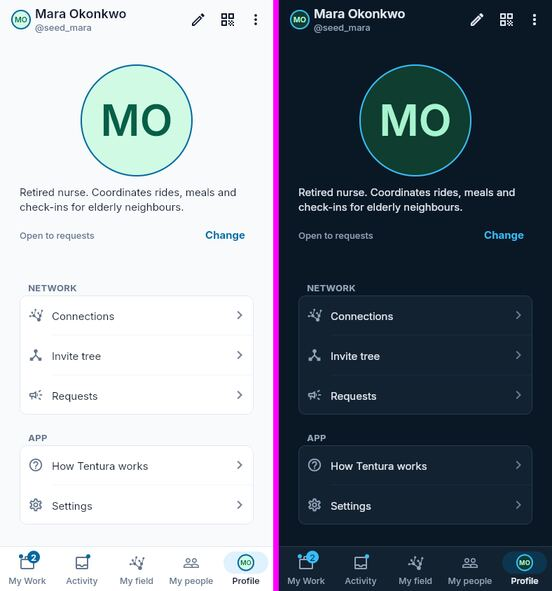
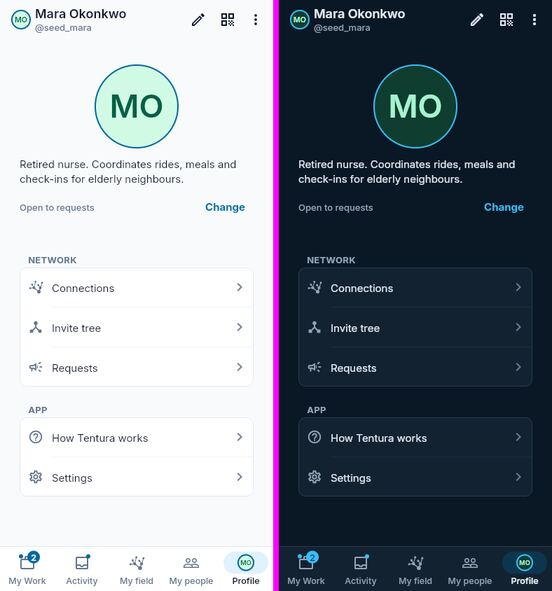
fix(ui): UI review round 2 — tabs, graphs, People tab, rating, profile
- Tabs (#206): Forward picker counts read "Not yet seen 3" like Updates;
  the design-system doc now fixes the rule (plain muted number for a
  collection size, filled badge only for new / needs-attention counts).
- Graphs (#211): the viewer node in My field draws from the live own
  profile, so a cold load no longer shows "?" at the centre.
- Request › People (#205): sections render as headers over helper cards
  (AccordionExpansionTile(framed: false)) instead of cards inside a card.
- Rating (#208): reciprocity class is plain status text that wraps, not a
  truncated pill; removes two raw-inset/radius lint hits (baseline 26→24).
- Profile (#210): hero avatar 160→120; default medium avatar no longer
  derived from the hero size.

Claude-Session: https://claude.ai/code/session_01Tpen3EKFYB9hVr97ZsYy22

diff --git a/packages/client/lib/features/rating/ui/widget/rating_list_tile.dart b/packages/client/lib/features/rating/ui/widget/rating_list_tile.dart
@@ -79,31 +79,21 @@ class RatingListTile extends StatelessWidget {
     }
 
     String badgeLabel;
-    Color badgeBg;
     Color badgeFg;
-    Color badgeBorder;
     switch (reciprocity) {
       case _ReciprocityClass.mutual:
         badgeLabel = l10n.classMutual;
-        badgeBg = colorScheme.primary.withValues(alpha: 12 / 100);
         badgeFg = colorScheme.primary;
-        badgeBorder = colorScheme.primary.withValues(alpha: 4 / 10);
       case _ReciprocityClass.oneWayOut:
         badgeLabel = l10n.classOneWayOut;
-        badgeBg = tt.warn.withValues(alpha: 12 / 100);
         badgeFg = tt.warn;
-        badgeBorder = tt.warn.withValues(alpha: 4 / 10);
       case _ReciprocityClass.oneWayIn:
         badgeLabel = l10n.classOneWayIn;
-        // Neutral, so it stays distinct from the brand "mutual" badge.
-        badgeBg = colorScheme.surfaceContainerHigh;
+        // Neutral, so it stays distinct from the brand "mutual" label.
         badgeFg = colorScheme.onSurfaceVariant;
-        badgeBorder = colorScheme.outlineVariant;
       case _ReciprocityClass.none:
         badgeLabel = l10n.classNone;
-        badgeBg = colorScheme.surfaceContainer;
         badgeFg = colorScheme.onSurfaceVariant;
-        badgeBorder = colorScheme.outlineVariant;
     }
 
     const rowHeight = 56.0;
@@ -209,26 +199,14 @@ class RatingListTile extends StatelessWidget {
             Expanded(
               flex: 2,
               child: Center(
-                child: Container(
-                  padding: const EdgeInsets.symmetric(
-                    horizontal: kSpacingSmall,
-                    vertical: 4,
-                  ),
-                  decoration: BoxDecoration(
-                    color: badgeBg,
-                    borderRadius: BorderRadius.circular(16),
-                    border: Border.all(color: badgeBorder),
-                  ),
-                  child: Text(
-                    badgeLabel,
-                    style: textTheme.labelSmall?.copyWith(
-                      color: badgeFg,
-                      fontWeight: FontWeight.w500,
-                    ),
-                    maxLines: 1,
-                    overflow: TextOverflow.ellipsis,
-                    textAlign: TextAlign.center,
-                  ),
+                // Plain status text, not a pill (design-system principle 2,
+                // UI review #208); wraps instead of truncating to "one-…".
+                child: Text(
+                  badgeLabel,
+                  style: TenturaText.status(badgeFg),
+                  maxLines: 2,
+                  overflow: TextOverflow.ellipsis,
+                  textAlign: TextAlign.center,
                 ),
               ),
             ),

diff --git a/packages/client/lib/ui/widget/accordion_expansion.dart b/packages/client/lib/ui/widget/accordion_expansion.dart
@@ -55,7 +55,8 @@ class AccordionExpansionGroup extends StatefulWidget {
   final String? requestedExpandedId;
 
   @override
-  State<AccordionExpansionGroup> createState() => _AccordionExpansionGroupState();
+  State<AccordionExpansionGroup> createState() =>
+      _AccordionExpansionGroupState();
 }
 
 class _AccordionExpansionGroupState extends State<AccordionExpansionGroup> {
@@ -69,8 +70,7 @@ class _AccordionExpansionGroupState extends State<AccordionExpansionGroup> {
   String? _expandedId;
 
   bool _resolveAccordionMode(BuildContext context) {
-    return widget.accordionMode ??
-        context.windowClass == WindowClass.compact;
+    return widget.accordionMode ?? context.windowClass == WindowClass.compact;
   }
 
   @override
@@ -133,6 +133,7 @@ class AccordionExpansionTile extends StatefulWidget {
     this.onExpansionChanged,
     this.initiallyExpanded = false,
     this.maintainState = true,
+    this.framed = true,
     super.key,
   });
 
@@ -151,6 +152,11 @@ class AccordionExpansionTile extends StatefulWidget {
   final bool initiallyExpanded;
 
   final bool maintainState;
+
+  /// Draws the themed outlined frame around the fold. Pass `false` when the
+  /// children are already cards, so the section reads as a header over cards
+  /// instead of a card holding cards (UI review #205).
+  final bool framed;
 
   @override
   State<AccordionExpansionTile> createState() => _AccordionExpansionTileState();
@@ -199,8 +205,13 @@ class _AccordionExpansionTileState extends State<AccordionExpansionTile> {
     final theme = Theme.of(context);
     final trailing = _buildTrailing(theme);
 
+    final ShapeBorder? unframed = widget.framed ? null : const Border();
+
     if (!accordionMode) {
       return ExpansionTile(
+        shape: unframed,
+        collapsedShape: unframed,
+        tilePadding: widget.framed ? null : EdgeInsets.zero,
         leading: widget.leading,
         initiallyExpanded: widget.initiallyExpanded,
         maintainState: widget.maintainState,
@@ -214,6 +225,9 @@ class _AccordionExpansionTileState extends State<AccordionExpansionTile> {
     final expanded = scope!.expandedId == widget.id;
     return ExpansionTile(
       key: ValueKey('${widget.id}-$expanded'),
+      shape: unframed,
+      collapsedShape: unframed,
+      tilePadding: widget.framed ? null : EdgeInsets.zero,
       leading: widget.leading,
       initiallyExpanded: expanded,
       maintainState: widget.maintainState,

diff --git a/packages/client/lib/features/graph/ui/widget/graph_node_widget.dart b/packages/client/lib/features/graph/ui/widget/graph_node_widget.dart
@@ -1,4 +1,5 @@
 import 'package:flutter/material.dart';
+import 'package:get_it/get_it.dart';
 
 import 'package:tentura/design_system/components/tentura_avatar.dart';
 import 'package:tentura/design_system/components/tentura_count_badge.dart';
@@ -100,11 +101,35 @@ class GraphNodeWidget extends StatelessWidget {
           size: nodeDetails.size * 0.45,
         ),
       ),
-      FieldPersonNode(:final person) => TenturaAvatar(
-        profile: person,
-        size: nodeDetails.size,
-        withRating: withRating,
-        isSelf: isSelf,
+      // The viewer node is built from the profile the field cubit captured at
+      // creation — on a cold load an id-only placeholder, which drew "?"
+      // in the centre of My field (UI review #211). Draw it from the live
+      // own profile instead.
+      // Read from GetIt like ConstellationScreen does (the field is not
+      // always under a ProfileCubit provider); fall back to the node's own
+      // profile when none is registered (isolated widget tests).
+      FieldPersonNode(:final person) when !GetIt.I.isRegistered<ProfileCubit>() =>
+        TenturaAvatar(
+          profile: person,
+          size: nodeDetails.size,
+          withRating: withRating,
+          isSelf: isSelf,
+        ),
+      FieldPersonNode(:final person) => BlocBuilder<ProfileCubit, ProfileState>(
+        bloc: GetIt.I<ProfileCubit>(),
+        buildWhen: (p, c) => p.profile != c.profile,
+        builder: (context, state) {
+          final live = state.profile;
+          final shown = live.id.isNotEmpty && live.id == person.id
+              ? live
+              : person;
+          return TenturaAvatar(
+            profile: shown,
+            size: nodeDetails.size,
+            withRating: withRating,
+            isSelf: isSelf,
+          );
+        },
       ),
       FieldBeaconNode(request: final request?) => BeaconIdentityTile(
         beacon: constellationRequestAsIdentityBeacon(request),

diff --git a/packages/client/lib/features/beacon_view/ui/widget/beacon_people_tab_body.dart b/packages/client/lib/features/beacon_view/ui/widget/beacon_people_tab_body.dart
@@ -188,6 +188,7 @@ class BeaconPeopleTabBody extends StatelessWidget {
           AccordionExpansionGroup(
             accordionMode: false,
             child: AccordionExpansionTile(
+              framed: false,
               id: BeaconPeopleAccordionSection.activeHelpers,
               initiallyExpanded: true,
               title: Text(
@@ -426,6 +427,7 @@ class BeaconPeopleTabBody extends StatelessWidget {
     }) {
       if (rows.isEmpty) return const SizedBox.shrink();
       return AccordionExpansionTile(
+        framed: false,
         id: sectionId,
         initiallyExpanded: initiallyExpanded,
         title: Text(
@@ -518,6 +520,7 @@ class BeaconPeopleTabBody extends StatelessWidget {
         AccordionExpansionGroup(
           accordionMode: false,
           child: AccordionExpansionTile(
+            framed: false,
             id: _forwardsFoldId,
             title: Text(
               forwardsTitle,
@@ -644,6 +647,7 @@ class BeaconPeopleTabBody extends StatelessWidget {
               if (showWithdrawn) ...[
                 const SizedBox(height: 8),
                 AccordionExpansionTile(
+                  framed: false,
                   id: BeaconPeopleAccordionSection.withdrawn,
                   title: Text(l10n.beaconShowWithdrawn(withdrawn.length)),
                   children: [

diff --git a/packages/client/lib/features/forward/ui/widget/forward_scope_links.dart b/packages/client/lib/features/forward/ui/widget/forward_scope_links.dart
@@ -73,12 +73,13 @@ class ForwardScopeLinks extends StatelessWidget {
                                     active ? activeColor : tt.textMuted,
                                   ),
                                 ),
+                                // Collection sizes read "Label  N" like the
+                                // Updates tabs; filled badges are kept for
+                                // new / needs-attention counts (#206).
                                 TextSpan(
-                                  text: ' ($count)',
+                                  text: '\u2002$count',
                                   style: TenturaText.withTabular(
-                                    TenturaText.bodySmall(
-                                      active ? activeColor : tt.textMuted,
-                                    ),
+                                    TenturaText.bodySmall(tt.textMuted),
                                   ),
                                 ),
                               ],

diff --git a/packages/client/lib/design_system/components/tentura_avatar.dart b/packages/client/lib/design_system/components/tentura_avatar.dart
@@ -24,7 +24,10 @@ enum TenturaAvatarSize {
 const int kAvatarRatingSector = 100 ~/ 4;
 
 /// Fixed diameter for [TenturaAvatarSize.big] (profile hero).
-const double kTenturaAvatarBigSize = 160;
+///
+/// 120 rather than 160: with initials (most people have no photo) a 160 disc
+/// dominated the profile and pushed the actions below the fold (#210).
+const double kTenturaAvatarBigSize = 120;
 
 /// Largest avatar that still carries the MeritRank eye / mutual badge.
 const double kTenturaAvatarBadgeMaxSize = 64;
@@ -33,7 +36,7 @@ const double kTenturaAvatarBadgeMaxSize = 64;
 const double kTenturaAvatarStackRing = 1.5;
 
 /// Default list-row avatar diameter ([TenturaAvatarSize.medium] on compact).
-const double kTenturaAvatarDefaultMedium = kTenturaAvatarBigSize / 4;
+const double kTenturaAvatarDefaultMedium = 40;
 
 /// Unified circular profile avatar: identifier, optional MeritRank chrome,
 /// self halo, author star, and capability overlay badge.

diff --git a/docs/tentura-design-system.md b/docs/tentura-design-system.md
@@ -235,10 +235,11 @@ Do **not** wrap the app in `MediaQuery.copyWith(textScaler: TextScaler.noScaling
 4. **Hairlines** — use [`TenturaHairlineDivider`](../packages/client/lib/design_system/components/tentura_hairline_divider.dart), not nested cards. **Exception:** My Desk live-obligation sub-cards may nest one outlined [`TenturaTechCardStatic`](../packages/client/lib/design_system/components/tentura_tech_card.dart) (`tt.bg` / `tt.borderSubtle`, optional `radius: TenturaRadii.cardDense`, padding `tt.cardGap`) inside a Request card — no second elevation.
 5. **Tabs** — underline row with 2px active indicator ([`TenturaUnderlineTabs`](../packages/client/lib/design_system/components/tentura_underline_tabs.dart)), not `SegmentedButton` on beacon detail. Labels stay at **13px** logical size. Text-only tabs use **ellipsis** when width is tight. When optional **icons** are passed (request detail), labels hide together if icon+text does not fit each equal slot — badges are not part of that fit decision; icon-only tabs keep the label via Tooltip / Semantics. Vertical padding follows **`context.tt.rowGap`** (density), not a fixed px hack.
    - **`compactIconTabs`** — `Set<int>` of tab indices rendered at fixed width (`context.tt.tabCompactWidth`: **56** dp compact, **64** dp regular/expanded) with icon-only cells; badges overlay the icon. NOW and Chat stay equal-width `Expanded` slots; People uses this mode on request detail.
+   - **Counts** — a *collection size* ("Unread 7", "Not yet seen 3") is a plain muted tabular number after the label (`TenturaTabCountStyle.plainText`); a filled `TenturaCountBadge` is reserved for *new / needs-attention* counts (e.g. unread chat). No parenthesised "(3)".
    - **Tab hit target** — every tab cell is wrapped in `ConstrainedBox(minHeight: kMinInteractiveDimension)` (**48** dp minimum interactive height), including icon-only compact cells.
 6. **Button hierarchy** (themed once in `TenturaTheme`): **Filled** = the one primary action on a screen; **Filled.tonal** = secondary actions (brand container); **Text** = tertiary; **Outlined** = neutral frame (`outlineVariant`), brand ink. All share `tt.buttonRadius`, `tt.buttonHeight` and `labelLarge`. Disabled filled buttons are neutral grey, never a washed-out brand. Count badges are brand (`BadgeTheme`), not error red.
 7. **Actions** — [`TenturaTextAction`](../packages/client/lib/design_system/components/tentura_text_action.dart) / [`TenturaCommandButton`](../packages/client/lib/design_system/components/tentura_command_button.dart); avoid filled buttons inside dense cards unless truly primary.
-8. **Avatars** — unified [`TenturaAvatar`](../packages/client/lib/design_system/components/tentura_avatar.dart) with four buckets via `TenturaAvatarSize`: **big** (160, profile hero), **medium** (`avatarSize`, list rows / people tab), **small** (`metadataAvatarSize`, facepiles / coordination footer), **tiny** (`avatarTinySize`, inline log/timeline). Optional flags: `showAuthorStar` (beacon author), `isSelf` (viewer halo), `withRating` / `withContactBadge` (MeritRank; honored at big/medium/small only). Personal/identity surfaces default to plain avatars (`withRating: false`). Viewer identity is resolved only in [`SelfAwareAvatar`](../packages/client/lib/ui/widget/self_aware_profile_avatar.dart) (never in the DS widget). Facepiles use [`OverlappingPeopleAvatars`](../packages/client/lib/ui/widget/overlapping_people_avatars.dart) with `selfUserId` + `starredProfileId`. Photo-less avatars draw initials on a per-person hue (`TenturaColorPalette.avatarHueFor(userId)`), so a list of people is scannable by colour.
+8. **Avatars** — unified [`TenturaAvatar`](../packages/client/lib/design_system/components/tentura_avatar.dart) with four buckets via `TenturaAvatarSize`: **big** (120, profile hero), **medium** (`avatarSize`, list rows / people tab), **small** (`metadataAvatarSize`, facepiles / coordination footer), **tiny** (`avatarTinySize`, inline log/timeline). Optional flags: `showAuthorStar` (beacon author), `isSelf` (viewer halo), `withRating` / `withContactBadge` (MeritRank; honored at big/medium/small only). Personal/identity surfaces default to plain avatars (`withRating: false`). Viewer identity is resolved only in [`SelfAwareAvatar`](../packages/client/lib/ui/widget/self_aware_profile_avatar.dart) (never in the DS widget). Facepiles use [`OverlappingPeopleAvatars`](../packages/client/lib/ui/widget/overlapping_people_avatars.dart) with `selfUserId` + `starredProfileId`. Photo-less avatars draw initials on a per-person hue (`TenturaColorPalette.avatarHueFor(userId)`), so a list of people is scannable by colour.
 9. **A11y** — min tap targets (e.g. button height from tokens); respect system text scaling.
 
 ### Updates feed (home tab)
